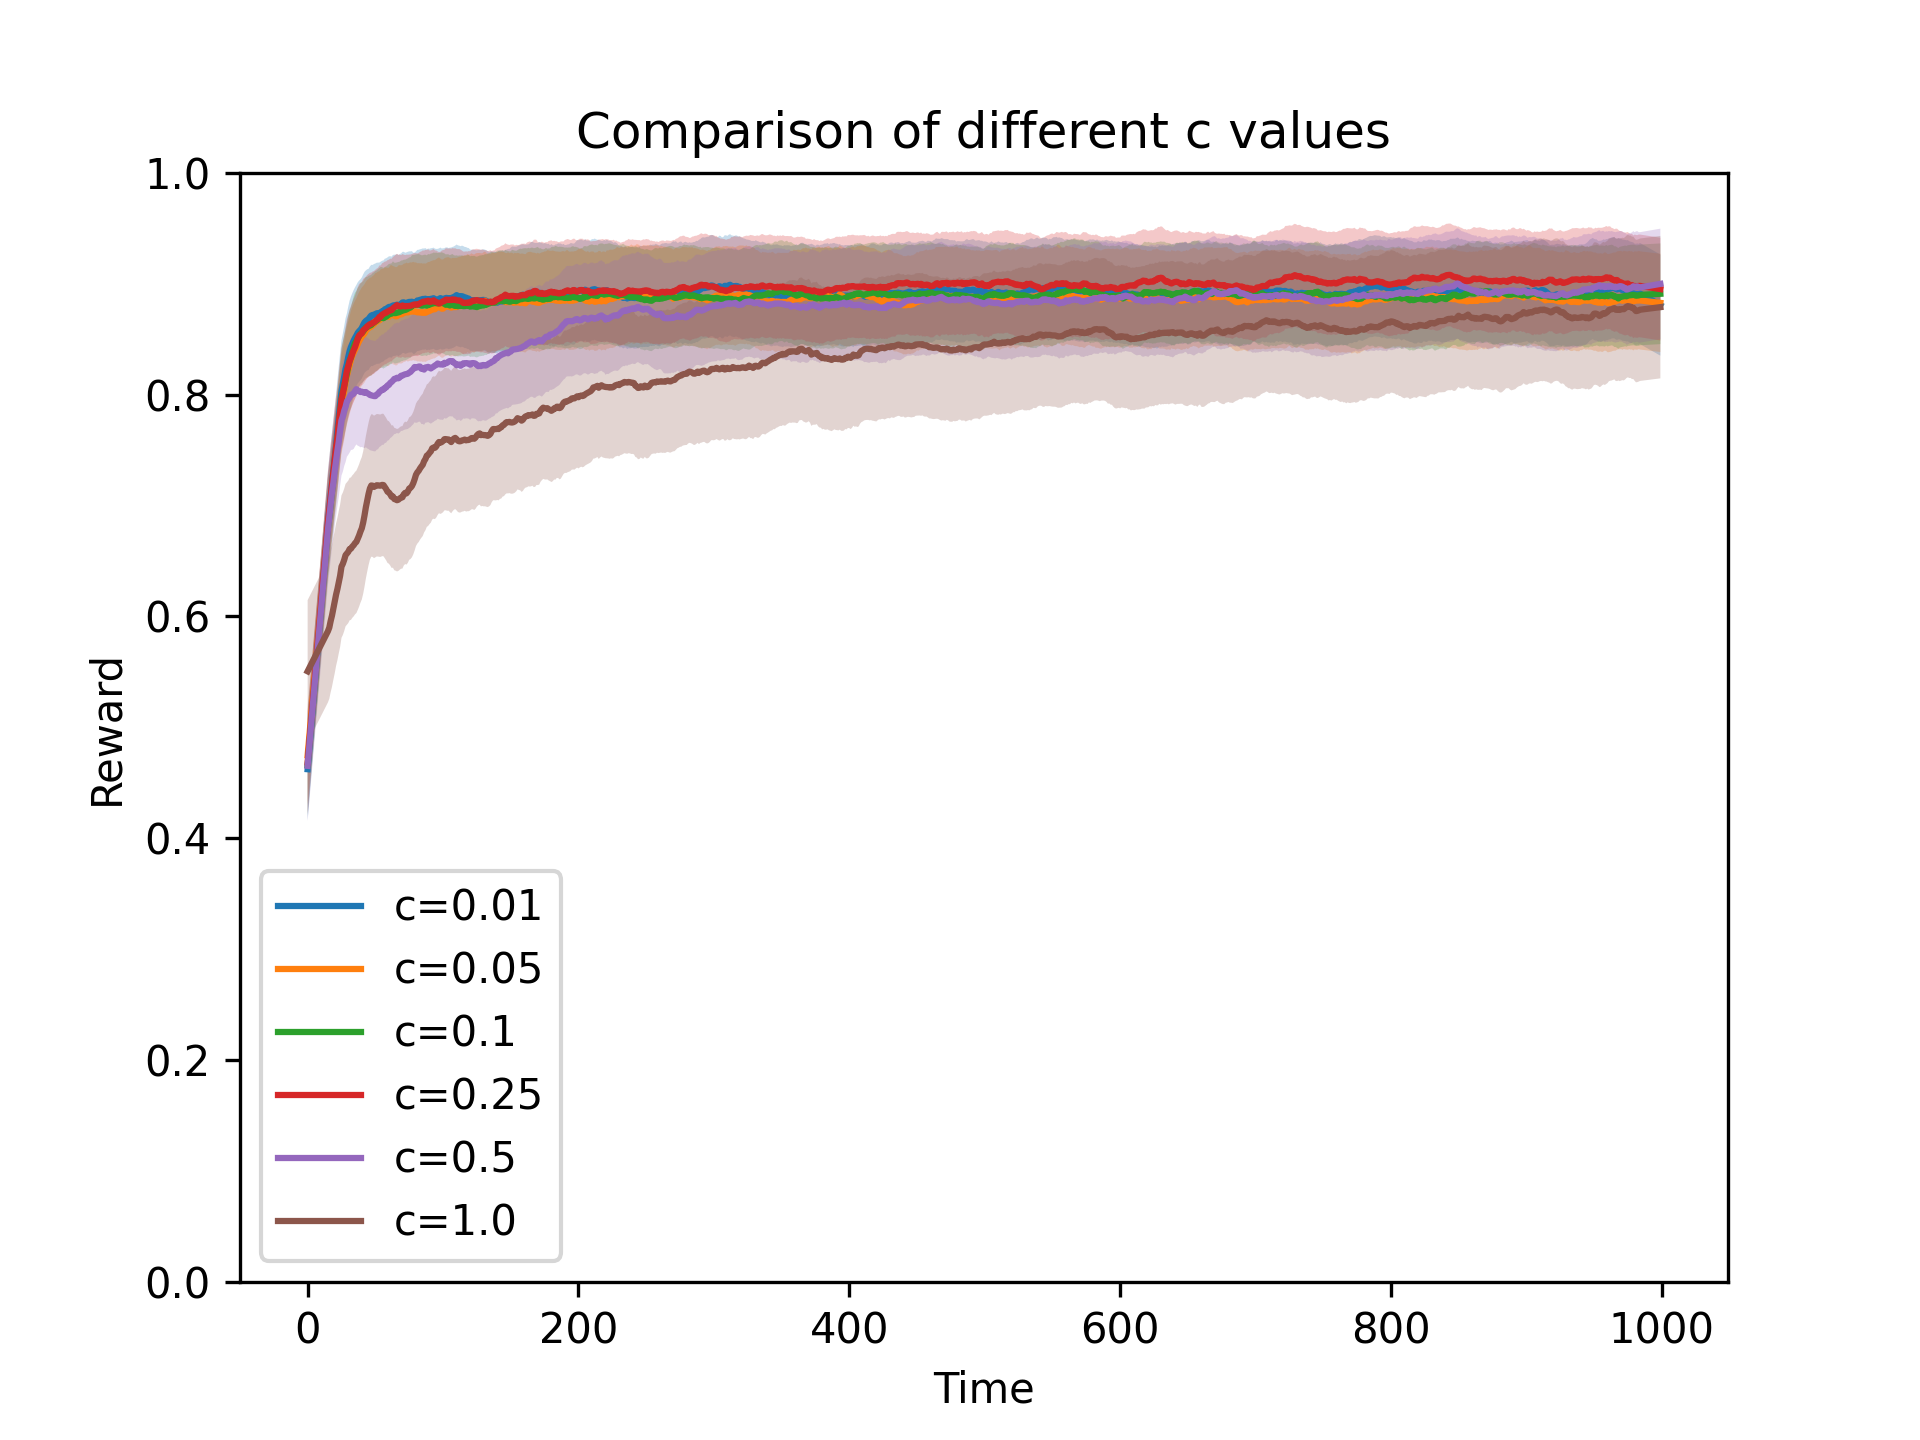
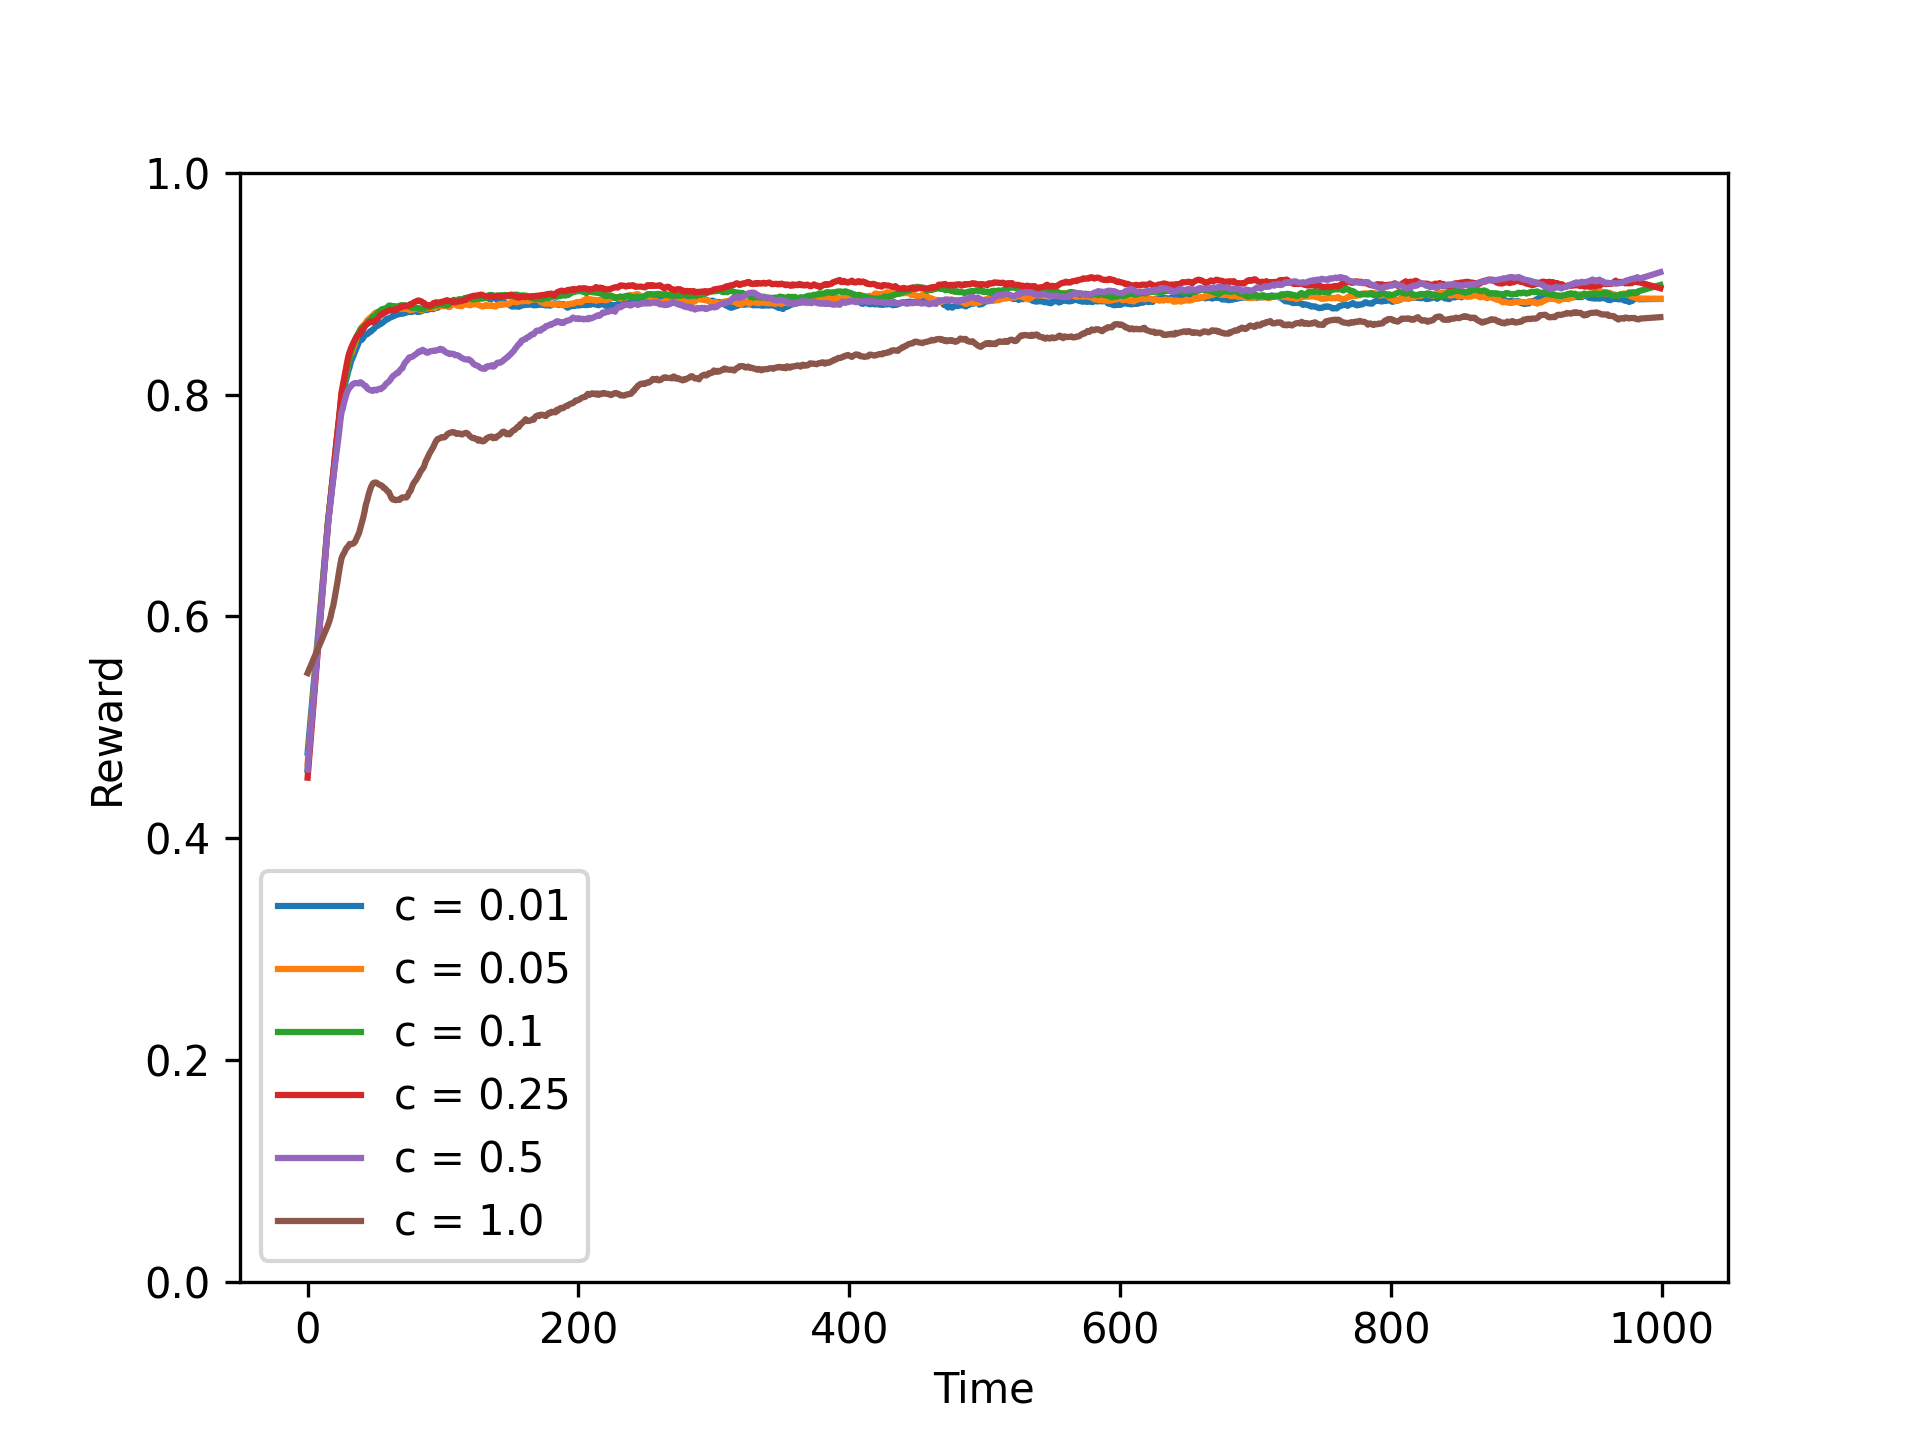
All functions and figures are implemented

diff --git a/BanditExperiment.py b/BanditExperiment.py
@@ -12,120 +12,115 @@ from BanditEnvironment import BanditEnvironment
 from BanditPolicies import EgreedyPolicy, OIPolicy, UCBPolicy
 from Helper import LearningCurvePlot, ComparisonPlot, smooth
  
-
-def run_repetitions_egreedy():
-    n_timesteps = 1000
-    n_rep = 500
-    smoothing_window = 31
+def run_repetitions(n_actions, n_timesteps, n_repetitions, policy_id, eps = 0, initial_value = 0, c_value = 0):
+    # Runs the policy (policy_id) for (n_timesteps) with (n_repetitions) for a certain hyperparameter
+    rewards = np.zeros((n_repetitions, n_timesteps))
     
-    
-    plot = LearningCurvePlot("Comparison of different epsilon values")
-    
-    for test in [0.01,0.05,0.1,0.25]:
-        
-        rewards = np.zeros((n_rep,n_timesteps))
-
-        for episode in range(n_rep):
-            env = BanditEnvironment(n_actions)
-            pi = EgreedyPolicy(n_actions=n_actions) # Initialize policy
-
-            for timestep in range(n_timesteps):
-                a = pi.select_action(epsilon=test) # select action
-                r = env.act(a) # sample reward
-                pi.update(a,r) # update policy
-                rewards[episode][timestep] = r
-        
-        x = np.arange(n_timesteps)
-        y = np.mean(rewards,axis=0)
-        plot.add_curve(smooth(y,window=smoothing_window),f"e={test}")
-        std = np.std(y,axis=0)
-        lowy, highy = smooth(y-std,smoothing_window), smooth(y+std,smoothing_window)
-        plot.ax.fill_between(x, lowy, highy, alpha = 0.25)
-
-    plot.save("epsilon")
-
-def run_repetitions_oi():
-    n_timesteps = 1000
-    n_rep = 500
-    smoothing_window = 31
-    
-    
-    plot = LearningCurvePlot("Comparison of different C values")
-    
-    for test in [0.1,0.5,1,2]:
-        
-        rewards = np.zeros((n_rep,n_timesteps))
-
-        for episode in range(n_rep):
-            env = BanditEnvironment(n_actions)
-            pi = OIPolicy(n_actions=n_actions,initial_value=test) # Initialize policy
-
-            for timestep in range(n_timesteps):
-                a = pi.select_action() # select action
-                r = env.act(a) # sample reward
-                pi.update(a,r) # update policy
-                rewards[episode][timestep] = r
-        
-        x = np.arange(n_timesteps)
-        y = np.mean(rewards,axis=0)
-        plot.add_curve(smooth(y,window=smoothing_window),f"c={test}")
-        std = np.std(y,axis=0)
-        lowy, highy = smooth(y-std,smoothing_window), smooth(y+std,smoothing_window)
-        plot.ax.fill_between(x, lowy, highy, alpha = 0.25)
-
-    plot.save("oi")
-
-def run_repetitions_ucb():
-    n_timesteps = 1000
-    n_rep = 500
-    smoothing_window = 31
-    
-    
-    plot = LearningCurvePlot("Comparison of different c values")
-    
-    for test in [0.01,0.05,0.1,0.25,0.5,1.0]:
-        
-        rewards = np.zeros((n_rep,n_timesteps))
-
-        for episode in range(n_rep):
-            env = BanditEnvironment(n_actions)
-            pi = UCBPolicy(n_actions=n_actions) # Initialize policy
-
-            for timestep in range(n_timesteps):
-                a = pi.select_action(c=test,t=timestep) # select action
-                r = env.act(a) # sample reward
-                pi.update(a,r) # update policy
-                rewards[episode][timestep] = r
-        print("done with",test)
-        x = np.arange(n_timesteps)
-        y = np.mean(rewards,axis=0)
-        plot.add_curve(smooth(y,window=smoothing_window),label=f"c={test}")
-        std = np.std(y,axis=0)
-        lowy, highy = smooth(y-std,smoothing_window), smooth(y+std,smoothing_window)
-        plot.ax.fill_between(x, lowy, highy, alpha = 0.25)
-
-    plot.save("UCB")
-        
-        
-        
-    
-    
-
-
-
-        
+    for rep in range(n_repetitions):
+        # Initialize environment 
+        env = BanditEnvironment(n_actions = n_actions)
+        # Create policy 
+        if policy_id == 0:
+            policy = EgreedyPolicy(n_actions = n_actions) 
+        if policy_id == 1:
+            policy = OIPolicy(n_actions = n_actions, initial_value = initial_value)
+        if policy_id == 2:
+            policy = UCBPolicy(n_actions = n_actions)
+        # Select action
+        for t in range(n_timesteps):
+            if policy_id == 0:
+                a = policy.select_action(epsilon = eps) 
+            if policy_id == 1:
+                a = policy.select_action()
+            if policy_id == 2:
+                a = policy.select_action(c_value, t)
+            # Sample reward
+            r = env.act(a)
+            # Update policy
+            policy.update(a,r)
+            # Store reward
+            rewards[rep][t] += r 
+    return rewards
 
 def experiment(n_actions, n_timesteps, n_repetitions, smoothing_window):
-    #To Do: Write all your experiment code here
+  # --------------------- Assignment 1: Optimistic init --------------------- #
+    epsilons = [0.01, 0.05, 0.1, 0.25]
+    y_e_greedy = np.empty((len(epsilons), n_timesteps))
     
-    # Assignment 1: e-greedy
-    #run_repetitions_egreedy()
-    # Assignment 2: Optimistic init
-    run_repetitions_oi()
-    # Assignment 3: UCB
-    #run_repetitions_ucb()
-    # Assignment 4: Comparison
+    for i in range(len(epsilons)):
+        rewards = run_repetitions(n_actions, n_timesteps, n_repetitions, policy_id = 0, eps = epsilons[i])
+        y_e_greedy[i] = rewards.mean(axis = 0)
     
+    plot_e_greedy = LearningCurvePlot() 
+    for i in range(len(epsilons)): 
+        plot_e_greedy.add_curve(smooth(y = y_e_greedy[i], window = smoothing_window), label = 'e = ' + str(epsilons[i]))
+    
+    plot_e_greedy.save(name = 'e_greedy.png')
+    
+    # --------------------- Assignment 2: Optimistic init --------------------- #
+    initial_values = [0.1, 0.5, 1.0, 2.0]
+    y_OI = np.empty((len(initial_values), n_timesteps))
+    
+    for i in range(len(initial_values)):
+        rewards = run_repetitions(n_actions, n_timesteps, n_repetitions, policy_id = 1, initial_value = initial_values[i])
+        y_OI[i] = rewards.mean(axis = 0)
+    
+    plot_OI = LearningCurvePlot() 
+    for i in range(len(initial_values)):
+        plot_OI.add_curve(smooth(y = y_OI[i], window = smoothing_window), label = 'Ψ = ' + str(initial_values[i]))
+    
+    plot_OI.save(name = 'OI.png')
+   
+   # --------------------- Assignment 3: UCB --------------------- #
+    c = [0.01, 0.05, 0.1, 0.25, 0.5, 1.0]
+    y_UCB = np.empty((len(c), n_timesteps))
+    
+    for i in range(len(c)):
+        rewards = run_repetitions(n_actions, n_timesteps, n_repetitions, policy_id = 2, c_value = c[i])
+        y_UCB[i] = rewards.mean(axis = 0)
+        
+    plot_UCB = LearningCurvePlot() 
+    for i in range(len(c)):
+        plot_UCB.add_curve(smooth(y = y_UCB[i], window = smoothing_window), label = 'c = ' + str(c[i]))
+    
+    plot_UCB.save(name = 'UCB.png')
+    
+    # --------------------- Assignment 4 (a): Comparison --------------------- #
+    plot_comparison = ComparisonPlot()
+    
+    avg_rewards_e_greedy = np.empty(len(epsilons))
+    for i in range(len(epsilons)):
+        avg_rewards_e_greedy[i] = y_e_greedy[i].mean()
+    plot_comparison.add_curve(epsilons, avg_rewards_e_greedy, label = 'e-greedy')
+    
+    avg_rewards_OI = np.empty(len(initial_values))
+    for i in range(len(initial_values)):
+        avg_rewards_OI[i] = y_OI[i].mean()
+    plot_comparison.add_curve(initial_values, avg_rewards_OI, label = 'OI')
+   
+    avg_rewards_UCB = np.empty(len(c))
+    for i in range(len(c)):
+        avg_rewards_UCB[i] = y_UCB[i].mean()
+    plot_comparison.add_curve(c, avg_rewards_UCB, label = 'UCB')
+    
+    plot_comparison.save(name = 'Comparison')
+    
+    # --------------------- Assignment 4 (b): Comparison --------------------- #
+    epsilon_optimal = 0.1
+    initial_value_optimal = 0.5
+    c_optimal = 0.25
+    
+    y_e_greedy_optimal = run_repetitions(n_actions, n_timesteps, n_repetitions, policy_id = 0, eps = epsilon_optimal).mean(axis = 0)
+    y_OI_optimal = run_repetitions(n_actions, n_timesteps, n_repetitions, policy_id = 1, initial_value = initial_value_optimal).mean(axis = 0)
+    y_UCB_optimal = run_repetitions(n_actions, n_timesteps, n_repetitions, policy_id = 2, initial_value = c_optimal).mean(axis = 0)
+    
+    plot_optimal = LearningCurvePlot() 
+    plot_optimal.add_curve(smooth(y = y_e_greedy_optimal, window = smoothing_window), label = 'Optimal e-greedy (0.1)')
+    plot_optimal.add_curve(smooth(y = y_OI_optimal, window = smoothing_window), label = 'Optimal OI (0.5)')
+    plot_optimal.add_curve(smooth(y = y_UCB_optimal, window = smoothing_window), label = 'Optimal UCB (0.25)')
+    
+    plot_optimal.save(name = 'Optimal.png')
+
     pass
 
 if __name__ == '__main__':

diff --git a/BanditPolicies.py b/BanditPolicies.py
@@ -9,7 +9,6 @@ By Thomas Moerland
 """
 import numpy as np
 from BanditEnvironment import BanditEnvironment
-from random import uniform, randint
 
 class EgreedyPolicy:
 
@@ -19,48 +18,46 @@ class EgreedyPolicy:
         self.n = np.zeros(n_actions)
         
     def select_action(self, epsilon):
-        # sample action from weighted actions
-        maxAction = np.argmax(self.Q)
-        weightRandom = epsilon/(self.n_actions - 1)
-        weights = [weightRandom] * self.n_actions
-        weights[maxAction] = 1 - epsilon
-        return np.random.choice(self.n_actions,p=weights)
-
+        e_gredy = np.zeros(self.n_actions)
+        e_gredy.fill(epsilon / (self.n_actions - 1))
+        e_gredy[np.argmax(self.Q)] = 1 - epsilon
+        
+        return np.random.choice(self.n_actions, p = e_gredy)
+        
         
     def update(self,a,r):
         self.n[a] += 1
-        self.Q[a] += (1/self.n[a])*(r - self.Q[a])
-        
+        self.Q[a] += (1 / self.n[a]) * (r - self.Q[a])
 
 class OIPolicy:
 
     def __init__(self, n_actions=10, initial_value=0.0, learning_rate=0.1):
         self.n_actions = n_actions
         self.Q = np.zeros(n_actions)
-        self.Q.fill(initial_value)
-        self.mu = learning_rate
+        self.Q.fill(initial_value) 
+        self.lr = learning_rate
         
     def select_action(self):
         return np.argmax(self.Q)
         
     def update(self,a,r):
-        self.Q[a] += self.mu * (r - self.Q[a])
-        pass
+        self.Q[a] +=  self.lr * (r - self.Q[a]) 
 
 class UCBPolicy:
 
     def __init__(self, n_actions=10):
         self.n_actions = n_actions
-        self.Q = [0]*n_actions
-        self.n = [0]*n_actions
+        self.Q = np.zeros(n_actions)
+        self.n = np.zeros(n_actions)
     
     def select_action(self, c, t):
-
-        return np.argmax([np.inf if self.n[action] == 0 else self.Q[action] + c*np.sqrt(np.log(t)/self.n[action]) for action in range(self.n_actions)])
+        
+        UCB = [np.inf if self.n[a] == 0 else (self.Q[a] + c * np.sqrt(np.log(t) / self.n[a])) for a in range(self.n_actions)]  
+        return np.argmax(UCB)
         
     def update(self,a,r):
         self.n[a] += 1
-        self.Q[a] += (1/self.n[a])*(r - self.Q[a])
+        self.Q[a] += (1 / self.n[a]) * (r - self.Q[a])
     
 def test():
     n_actions = 10
